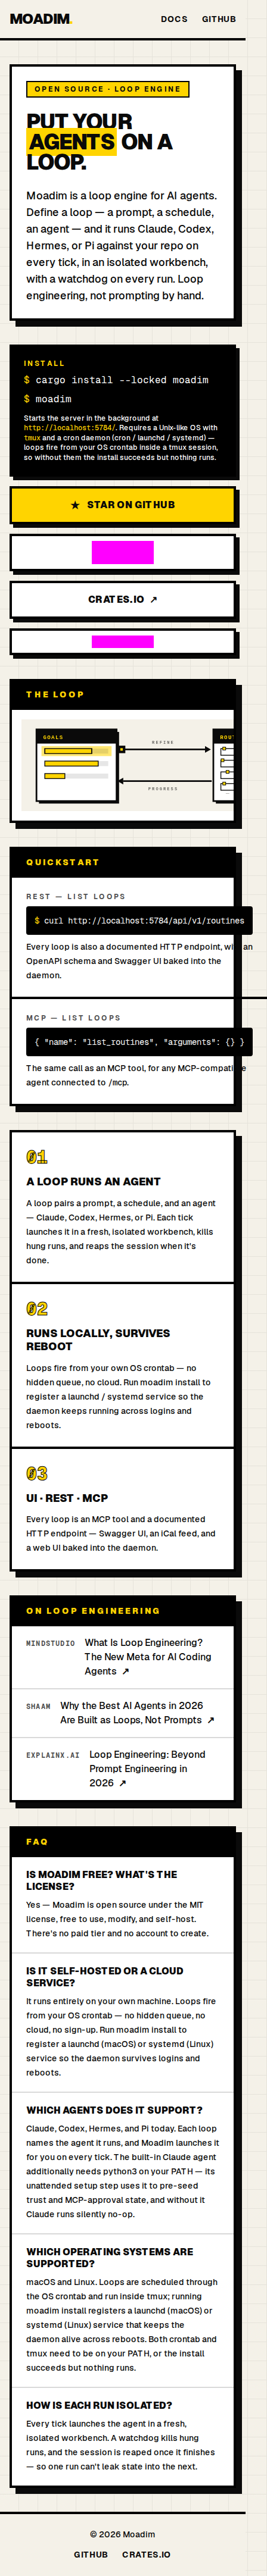
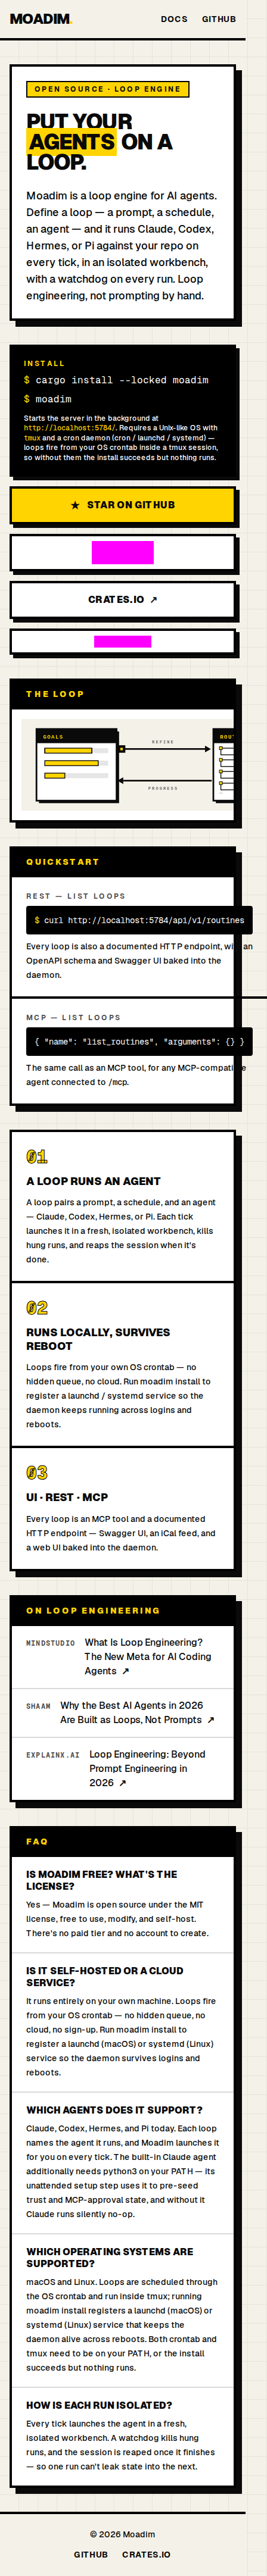
fix(csp): unblock Next.js inline scripts, shields.io badges, and CF beacon (#631)
* fix(csp): unblock Next.js inline scripts, shields.io badges, and CF beacon

The production CSP (script-src 'self'; img-src 'self') blocked all of the
static export's inline bootstrap scripts — killing hydration on the live
site with ~17 CSP violations per page load — rendered both shields.io
status badges as broken images, and blocked the Cloudflare Web Analytics
beacon Pages auto-injects.

- public/_headers: allow img.shields.io in img-src and the Cloudflare
  insights beacon in script-src/connect-src.
- scripts/inject-csp-hashes.mjs (new, chained into npm run build): hash
  every executable inline script in out/**/*.html and append the
  'sha256-...' sources to script-src in out/_headers, keeping the policy
  free of 'unsafe-inline'.
- verify-export.mjs: fail the deploy gate if the built _headers lacks the
  injected hashes.

* fix(csp): match whitespace-bearing script end tags; refresh mobile baseline

- inject-csp-hashes.mjs: the end-tag regex missed spec-legal '</script >'
  (CodeQL js/bad-tag-filter) — a missed end tag would swallow following
  markup into the hashed script and emit a hash the browser never matches.
- Refresh the stale homepage-mobile-linux.png visual baseline from CI's
  linux-rendered actual: main's own latest visual-regression run fails
  with the same pre-existing 1px layout shift under the badge row, and
  this PR changes no markup.

* fix(csp): close script extraction on any spec-tolerated end tag
[…]

diff --git a/scripts/verify-export.test.ts b/scripts/verify-export.test.ts
@@ -46,7 +46,14 @@ function makeOutDir({
       mkdirSync(join(outDir, file), { recursive: true });
       continue;
     }
-    writeFileSync(join(outDir, file), empty.includes(file) ? "" : "content");
+    // _headers gets real-shaped content: verify-export additionally checks its
+    // script-src carries the 'sha256-...' allowances inject-csp-hashes.mjs
+    // appends after `next build`, and a bare "content" placeholder fails that.
+    const content =
+      file === "_headers"
+        ? "/*\n  Content-Security-Policy: script-src 'self' 'sha256-abc123='\n"
+        : "content";
+    writeFileSync(join(outDir, file), empty.includes(file) ? "" : content);
   }
   return workDir;
 }
@@ -66,6 +73,20 @@ describe("verify-export", () => {
 
     expect(stdout).toContain(
       `verify-export: all ${REQUIRED_FILES.length} required export files present.`,
+    );
+  });
+
+  it("exits non-zero when _headers lacks the injected inline-script CSP hashes", () => {
+    // Guards the inject-csp-hashes.mjs build step: a pipeline change that runs
+    // `next build` without it would redeploy the hydration-killing CSP.
+    const cwd = makeOutDir();
+    writeFileSync(
+      join(cwd, "out", "_headers"),
+      "/*\n  Content-Security-Policy: script-src 'self'\n",
+    );
+
+    expect(() => execFileSync("node", [SCRIPT_PATH], { cwd, encoding: "utf8" })).toThrow(
+      /sha256/,
     );
   });
 

diff --git a/deploy-config.test.ts b/deploy-config.test.ts
@@ -79,6 +79,23 @@ describe("public/_headers", () => {
     expect(csp).not.toMatch(/unsafe-inline|unsafe-eval/);
   });
 
+  it("carves out the exact third-party allowances the page needs", () => {
+    // These shipped broken once (#unblock-csp): img-src 'self' rendered the
+    // two shields.io status badges as broken images, and script-src/connect-src
+    // 'self' blocked the Cloudflare Web Analytics beacon Pages auto-injects.
+    // Inline-script 'sha256-...' allowances are NOT asserted here — they change
+    // every build, so scripts/inject-csp-hashes.mjs appends them to out/_headers
+    // after `next build` (verify-export.mjs checks they made it into the export).
+    const csp = headerRules["/*"]?.find((line) =>
+      line.startsWith("Content-Security-Policy:"),
+    );
+    expect(csp).toContain("img-src 'self' https://img.shields.io");
+    expect(csp).toContain(
+      "script-src 'self' https://static.cloudflareinsights.com",
+    );
+    expect(csp).toContain("connect-src 'self' https://cloudflareinsights.com");
+  });
+
   it("caches content-hashed assets and metadata images forever", () => {
     for (const path of ["/_next/static/*", "/icon.svg"]) {
       expect(headerRules[path]).toEqual([

diff --git a/.changeset/fix-csp-inline-scripts-badges-beacon.md b/.changeset/fix-csp-inline-scripts-badges-beacon.md
@@ -1,0 +1,5 @@
+---
+"landing": patch
+---
+
+Fix the production CSP breaking the page: hash-allow Next.js's inline bootstrap scripts via a post-build injection step (restoring hydration without `unsafe-inline`), allow img.shields.io so the star/version badges render, and allow the Cloudflare Web Analytics beacon in script-src/connect-src.